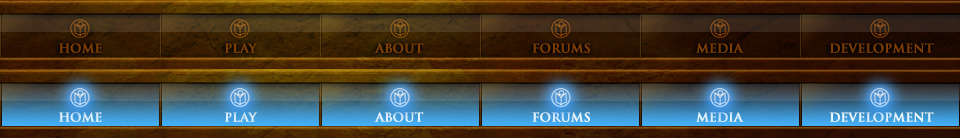
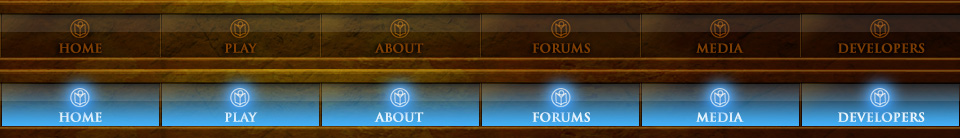
renamed development to developers

Changed region(s): [[0.8438, 0.8116, 0.9688, 0.8986], [0.8438, 0.2899, 0.9688, 0.4058]]

diff --git a/output/assets/style/moul.css b/output/assets/style/moul.css
@@ -104,19 +104,19 @@ body {
 	display: none;
 }
 
-#nav li#nav-home a              { background-position: 0      0; }
-#nav li#nav-play a              { background-position: -160px 0; }
-#nav li#nav-about a             { background-position: -320px 0; }
-#nav li#nav-forums a            { background-position: -480px 0; }
-#nav li#nav-media a             { background-position: -640px 0; }
-#nav li#nav-development a       { background-position: -800px 0; }
+#nav li#nav-home a             { background-position: 0      0; }
+#nav li#nav-play a             { background-position: -160px 0; }
+#nav li#nav-about a            { background-position: -320px 0; }
+#nav li#nav-forums a           { background-position: -480px 0; }
+#nav li#nav-media a            { background-position: -640px 0; }
+#nav li#nav-developers a       { background-position: -800px 0; }
 
-#nav li#nav-home a:hover        { background-position: 0      -69px; }
-#nav li#nav-play a:hover        { background-position: -160px -69px; }
-#nav li#nav-about a:hover       { background-position: -320px -69px; }
-#nav li#nav-forums a:hover      { background-position: -480px -69px; }
-#nav li#nav-media a:hover       { background-position: -640px -69px; }
-#nav li#nav-development a:hover { background-position: -800px -69px; }
+#nav li#nav-home a:hover       { background-position: 0      -69px; }
+#nav li#nav-play a:hover       { background-position: -160px -69px; }
+#nav li#nav-about a:hover      { background-position: -320px -69px; }
+#nav li#nav-forums a:hover     { background-position: -480px -69px; }
+#nav li#nav-media a:hover      { background-position: -640px -69px; }
+#nav li#nav-developers a:hover { background-position: -800px -69px; }
 
 /* ----- BANNER ----- */
 

diff --git a/content/developers/developers.html b/content/developers/developers.html
@@ -3,6 +3,6 @@
 <img src="/assets/images/sidebar/<?php echo $pair; ?>/top.jpg"    id="sidebar-pic-top">
 <img src="/assets/images/sidebar/<?php echo $pair; ?>/bottom.jpg" id="sidebar-pic-bottom">
 
-<h1>Development</h1>
+<h1>Developers</h1>
 
 <p>Lorem ipsum dolor sit amet, consectetur adipisicing elit, sed do eiusmod tempor incididunt ut labore et dolore magna aliqua. Ut enim ad minim veniam, quis nostrud exercitation ullamco laboris nisi ut aliquip ex ea commodo consequat. Duis aute irure dolor in reprehenderit in voluptate velit esse cillum dolore eu fugiat nulla pariatur. Excepteur sint occaecat cupidatat non proident, sunt in culpa qui officia deserunt mollit anim id est laborum.</p>

diff --git a/layouts/default/default.html b/layouts/default/default.html
@@ -18,7 +18,7 @@
 				<li id="nav-about"><a href="/about/"><span>About</span></a></li>
 				<li id="nav-forums"><a href="/forums/"><span>Forums</span></a></li>
 				<li id="nav-media"><a href="/media/"><span>Media</span></a></li>
-				<li id="nav-development"><a href="/development/"><span>Development</span></a></li>
+				<li id="nav-developers"><a href="/developers/"><span>Developers</span></a></li>
 			</ul>
 <% if @page.has_banner? %>
 			<div id="banner"></div>
